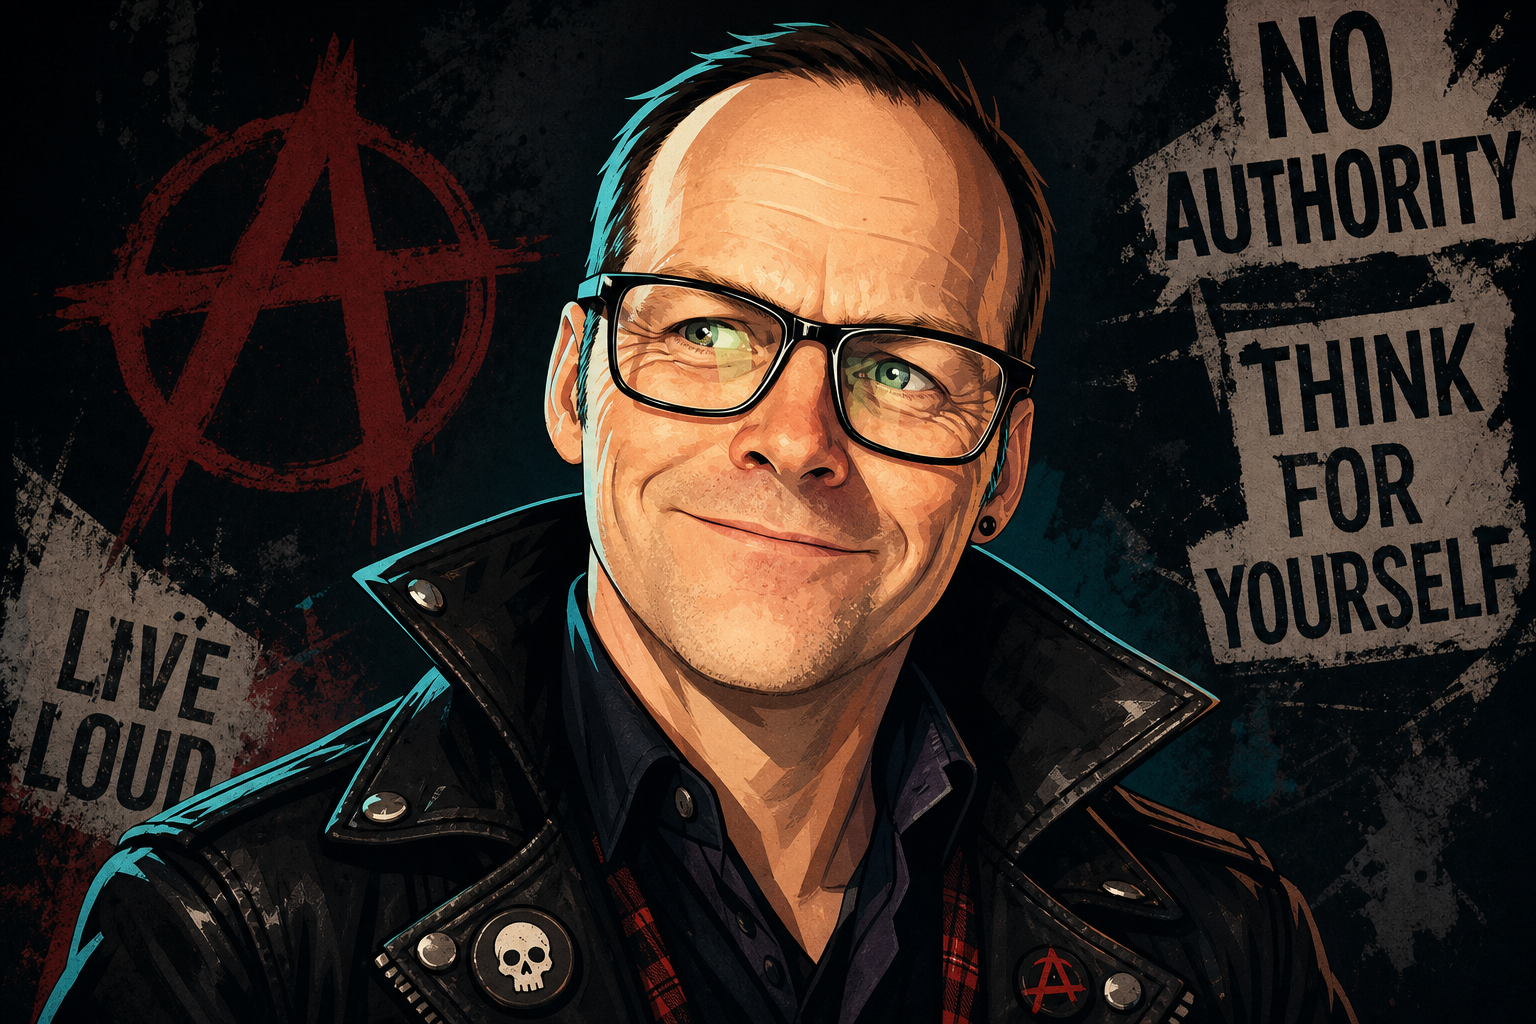
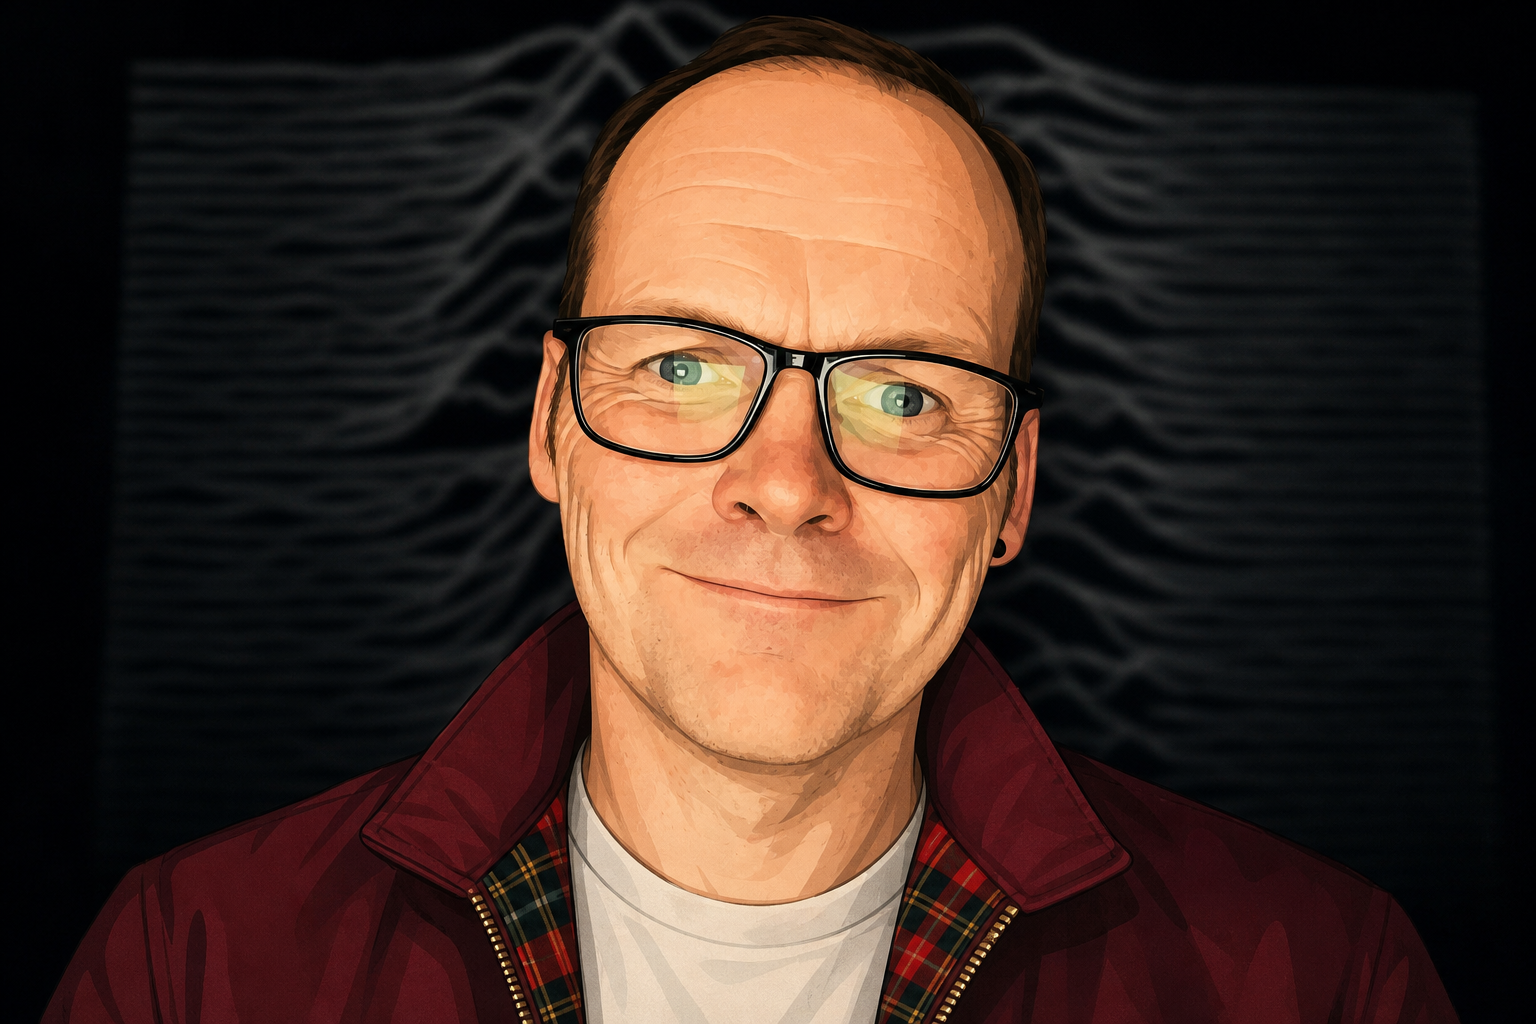
Replace biker punk with mod Harrington portrait; harden shuffle to exclude GIFs.

diff --git a/layouts/partials/widgets/about.html b/layouts/partials/widgets/about.html
@@ -22,19 +22,24 @@
 {{ $person := $person_page.Params }}
 {{ $avatar_shape := site.Params.avatar.shape | default "circle" }}
 
-{{/* Canonical default: avatar-default*, then avatar.jpg/jpeg/png/gif/webp, then first *avatar* match */}}
-{{ $canonical := $person_page.Resources.GetMatch "avatar-default*" }}
+{{/* Only processable still image types — explicitly excludes GIF and animated formats */}}
+{{ $processable := slice "jpg" "jpeg" "png" "webp" "tif" "tiff" "bmp" }}
+
+{{/* Canonical default: avatar-default.{jpg,jpeg,png,webp}, then avatar.{jpg,jpeg,png,webp} */}}
+{{ $canonical := $person_page.Resources.GetMatch "avatar-default.jpg" }}
+{{ if not $canonical }}{{ $canonical = $person_page.Resources.GetMatch "avatar-default.jpeg" }}{{ end }}
+{{ if not $canonical }}{{ $canonical = $person_page.Resources.GetMatch "avatar-default.png" }}{{ end }}
+{{ if not $canonical }}{{ $canonical = $person_page.Resources.GetMatch "avatar-default.webp" }}{{ end }}
 {{ if not $canonical }}{{ $canonical = $person_page.Resources.GetMatch "avatar.jpg" }}{{ end }}
 {{ if not $canonical }}{{ $canonical = $person_page.Resources.GetMatch "avatar.jpeg" }}{{ end }}
 {{ if not $canonical }}{{ $canonical = $person_page.Resources.GetMatch "avatar.png" }}{{ end }}
-{{ if not $canonical }}{{ $canonical = $person_page.Resources.GetMatch "avatar.gif" }}{{ end }}
 {{ if not $canonical }}{{ $canonical = $person_page.Resources.GetMatch "avatar.webp" }}{{ end }}
-{{ if not $canonical }}{{ $canonical = ($person_page.Resources.ByType "image").GetMatch "*avatar*" }}{{ end }}
 
-{{/* Extra portraits: avatar-alt-prof.jpg, avatar-alt-punk.png, … (any image type) */}}
+{{/* Extra portraits: avatar-alt-*.{jpg,jpeg,png,webp} only — GIF and other animated formats excluded */}}
 {{ $alts := slice }}
 {{ range sort ($person_page.Resources.ByType "image") "Name" "asc" }}
-  {{ if strings.HasPrefix (lower .Name) "avatar-alt-" }}
+  {{ $ext := lower (path.Ext .Name) | strings.TrimPrefix "." }}
+  {{ if and (strings.HasPrefix (lower .Name) "avatar-alt-") (in $processable $ext) }}
     {{ $alts = $alts | append . }}
   {{ end }}
 {{ end }}